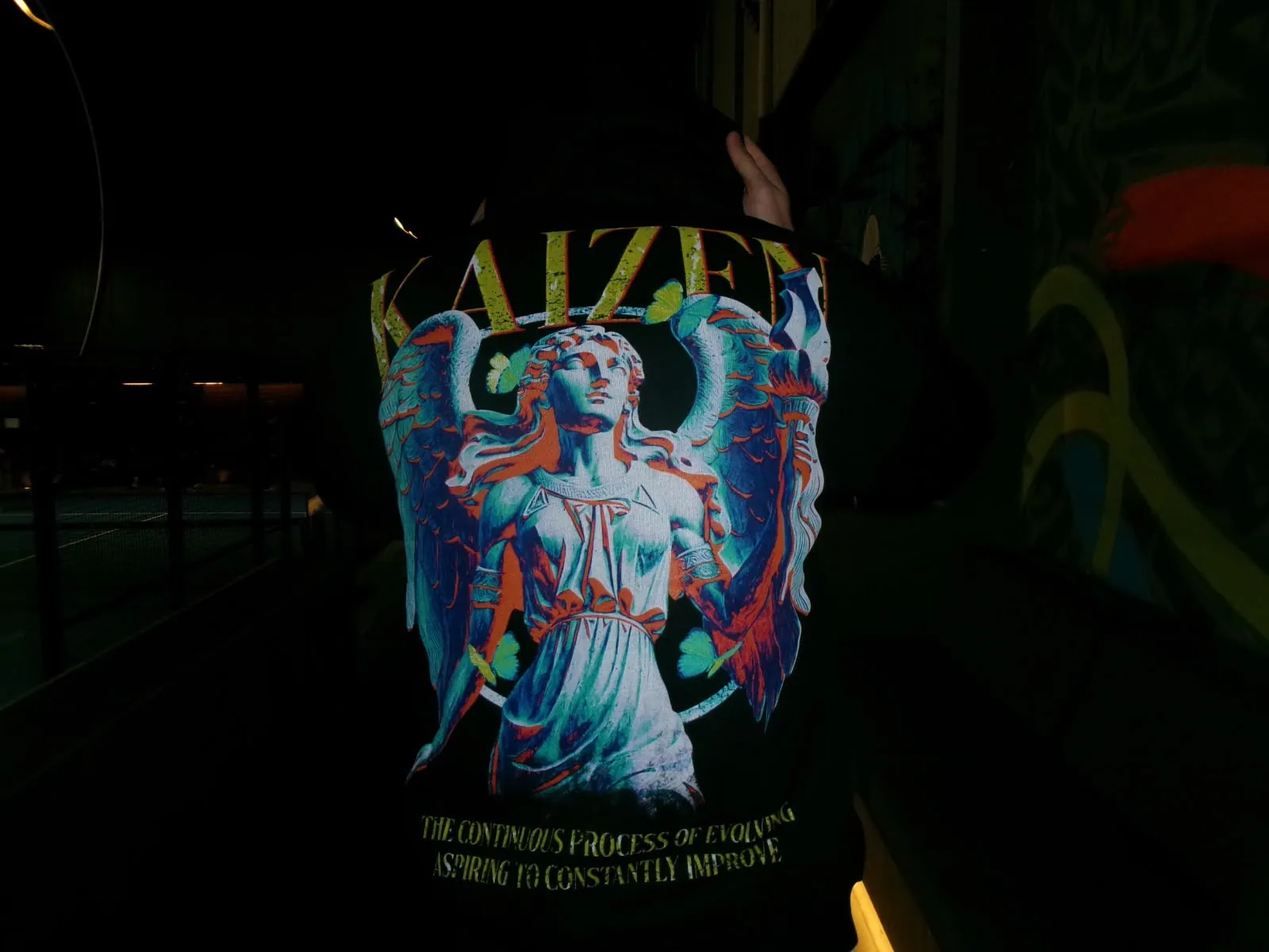
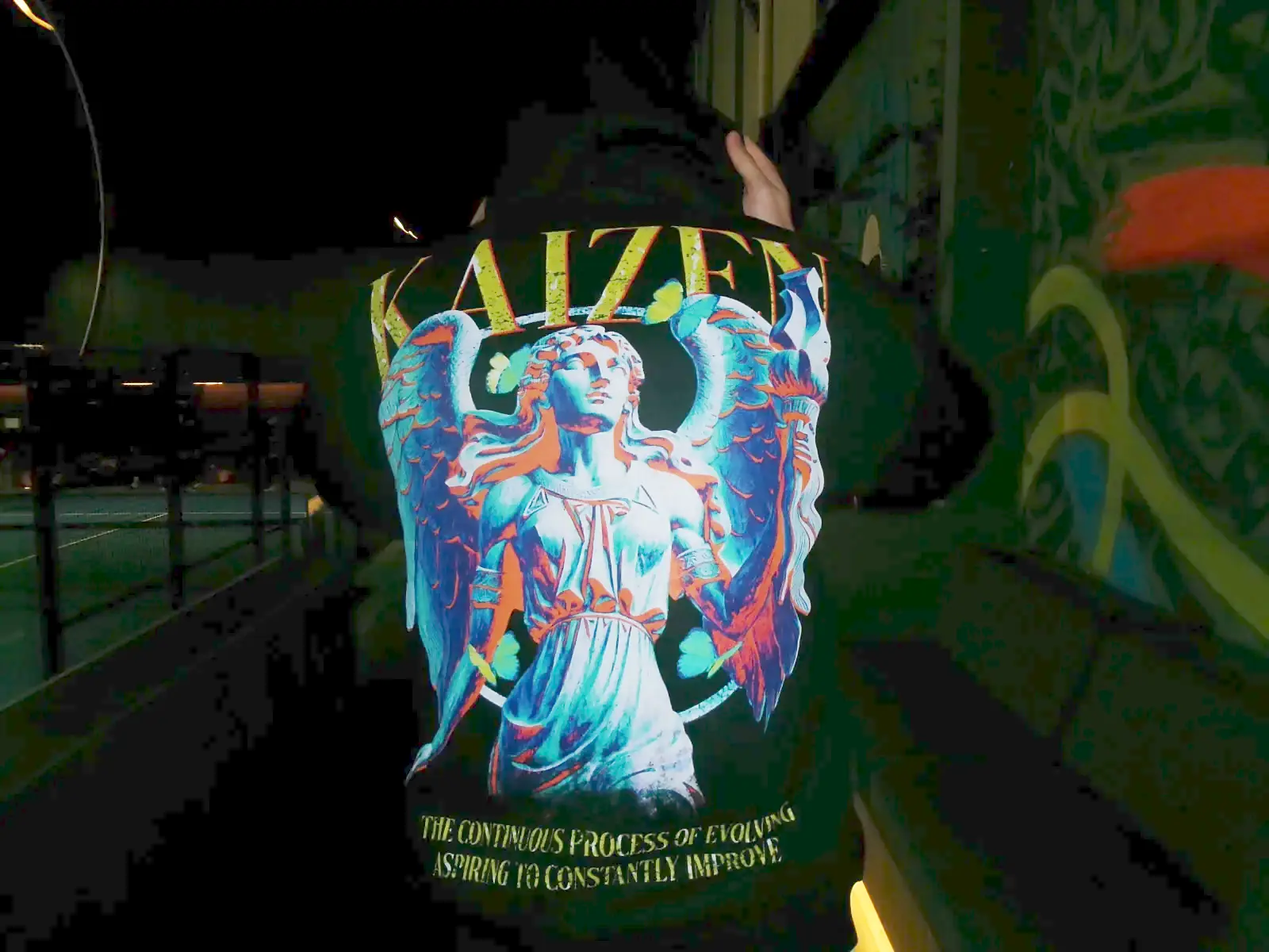
Answer the live review: real tee views, graded photos, audited copy, health check
- Tee pages show the brand's own 2024 design-sheet front and back views
  instead of "photo to come" frames; a product shows placeholders only
  when it has no photo at all
- Night photos graded (shadows lifted, slight warmth) and given deliberate
  4:5 crops for the product galleries; the hero keeps its mood
- Copy audited against the founder-approved brand brief: the VENGEANCE
  line no longer uses the banned word, Sanad's internal role is out of
  the public story and ordering text, the story page describes the real
  photo settings; a live database holding the retired wording is updated
- Archive and product pages label "Available now" and "Past release, not
  for sale" so the two can never be confused
- /api/health reports database, content source, ordering and uploads
  without secrets; the dashboard shows the same as warnings
- Fix: the contact page's WhatsApp button and Instagram link were
  invisible (a cover animation rule applied outside the cover)
- Archive chapters sit closer, with a hairline between them

Claude-Session: https://claude.ai/code/session_01KfYbv7KmSx2pcBoNv1AvWn

diff --git a/functions/_lib/seed.js b/functions/_lib/seed.js
@@ -22,7 +22,7 @@ export function seedVariants(p) {
 export const SEED_PRODUCTS = [
   {
     slug: 'vengeance-washed-hoodie',
-    images: ['/assets/img/ch1/vengeance-hoodie-back.webp | Back print, acid-washed charcoal', '/assets/img/ch1/vengeance-hoodie-night.webp | Worn, Amman, after dark', '/assets/img/ch1/vengeance-hoodie-white.webp | Back print, white', '/assets/img/ch1/vengeance-art.webp | The print: Lady Justice, VENGEANCE', '/assets/img/ch1/cover-night.webp | Hood up, over the city'],
+    images: ['/assets/img/ch1/vengeance-hoodie-back.webp | Back print, acid-washed charcoal', '/assets/img/ch1/vengeance-hoodie-night-45.webp | Worn, Amman, after dark', '/assets/img/ch1/vengeance-hoodie-white.webp | Back print, white', '/assets/img/ch1/vengeance-art.webp | The print: Lady Justice, VENGEANCE', '/assets/img/ch1/cover-night-45.webp | Hood up, over the city'],
     sku: 'SSC-VEN-WH', name: 'VENGEANCE Washed Hoodie', category: 'hoodies', collection: 'vengeance',
     price: 35000, tone: '#55524c', featured: true, status: 'available', sort: 10, color: 'Acid-washed charcoal',
     // White: real piece (Ali, 25 October 2026); count per size still to come, so it starts at 0.
@@ -35,7 +35,7 @@ export const SEED_PRODUCTS = [
   },
   {
     slug: 'vengeance-washed-tee',
-    images: ['/assets/img/ch1/vengeance-tee-wall.webp | Back print, on body, painted wall', '/assets/img/ch1/vengeance-tee-bar.webp | Worn, the gym', '/assets/img/ch1/vengeance-art.webp | The print: Lady Justice, VENGEANCE', '/assets/img/ch1/vengeance-tee-bar-2.webp | Pull-ups, Amman'],
+    images: ['/assets/img/ch1/vengeance-tee-wall.webp | Back print, on body, painted wall', '/assets/img/ch1/vengeance-tee-back.webp | Back print, acid-washed charcoal', '/assets/img/ch1/vengeance-tee-bar.webp | Worn, the gym', '/assets/img/ch1/vengeance-tee-front.webp | Front, chest logo', '/assets/img/ch1/vengeance-art.webp | The print: Lady Justice, VENGEANCE', '/assets/img/ch1/vengeance-tee-bar-2.webp | Pull-ups, Amman'],
     sku: 'SSC-VEN-WT', name: 'VENGEANCE Washed Tee', category: 'tees', collection: 'vengeance',
     price: 25000, tone: '#5e5b55', featured: true, status: 'available', sort: 20, color: 'Acid-washed charcoal',
     stock: { S: 0, M: 1, L: 2, XL: 2, XXL: 2 },
@@ -47,7 +47,7 @@ export const SEED_PRODUCTS = [
   },
   {
     slug: 'kaizen-hoodie',
-    images: ['/assets/img/ch1/kaizen-hoodie-back.webp | Back print, black', '/assets/img/ch1/hoodie-front-logo.webp | Front, chest logo', '/assets/img/ch1/kaizen-hoodie-white.webp | Back print, white', '/assets/img/ch1/kaizen-art.webp | The print: the angel, KAIZEN', '/assets/img/ch1/kaizen-hoodie-bar.webp | Worn, the gym'],
+    images: ['/assets/img/ch1/kaizen-hoodie-back.webp | Back print, black', '/assets/img/ch1/hoodie-front-logo.webp | Front, chest logo', '/assets/img/ch1/kaizen-hoodie-white.webp | Back print, white', '/assets/img/ch1/kaizen-art.webp | The print: the angel, KAIZEN', '/assets/img/ch1/kaizen-hoodie-bar.webp | Worn, the gym', '/assets/img/ch1/kaizen-hoodie-night-45.webp | Worn, Amman, after dark'],
     sku: 'SSC-KAI-H', name: 'KAIZEN Hoodie', category: 'hoodies', collection: 'kaizen',
     price: 35000, tone: '#26252a', featured: true, status: 'available', sort: 30, color: 'Black',
     // White: real piece (Ali, 25 October 2026); count per size still to come, so it starts at 0.
@@ -60,7 +60,7 @@ export const SEED_PRODUCTS = [
   },
   {
     slug: 'kaizen-tee',
-    images: ['/assets/img/ch1/poster-kaizen-blossom.webp | Tee and hoodie, Chapter One poster', '/assets/img/ch1/kaizen-art.webp | The print: the angel, KAIZEN'],
+    images: ['/assets/img/ch1/kaizen-tee-back.webp | Back print, black', '/assets/img/ch1/kaizen-tee-front.webp | Front, puff logo on the chest', '/assets/img/ch1/kaizen-art.webp | The print: the angel, KAIZEN', '/assets/img/ch1/poster-kaizen-blossom.webp | Tee and hoodie, Chapter One poster'],
     sku: 'SSC-KAI-T', name: 'KAIZEN Tee', category: 'tees', collection: 'kaizen',
     price: 25000, tone: '#2c2b30', featured: false, status: 'available', sort: 40, color: 'Black',
     stock: { S: 0, M: 2, L: 3, XL: 1, XXL: 0 },
@@ -72,7 +72,7 @@ export const SEED_PRODUCTS = [
   },
   {
     slug: 'tranquility-hoodie',
-    images: ['/assets/img/ch1/tranquility-hoodie-rooftop.webp | Back print, rooftop, Amman', '/assets/img/ch1/tranquility-hoodie-front.webp | Front, chest logo, hood up', '/assets/img/ch1/tranquility-art.webp | The print: TRANQUILITY', '/assets/img/ch1/tranquility-hoodie-wall.webp | Worn, after dark'],
+    images: ['/assets/img/ch1/tranquility-hoodie-rooftop.webp | Back print, rooftop, Amman', '/assets/img/ch1/tranquility-hoodie-front.webp | Front, chest logo, hood up', '/assets/img/ch1/tranquility-art.webp | The print: TRANQUILITY', '/assets/img/ch1/tranquility-hoodie-wall-45.webp | Worn, after dark'],
     sku: 'SSC-TRA-H', name: 'TRANQUILITY Hoodie', category: 'hoodies', collection: 'tranquility',
     price: 35000, tone: '#e8e3d8', featured: false, status: 'available', sort: 50, color: 'White',
     stock: { S: 1, M: 3, L: 2, XL: 3, XXL: 0 },
@@ -84,7 +84,7 @@ export const SEED_PRODUCTS = [
   },
   {
     slug: 'tranquility-tee',
-    images: ['/assets/img/ch1/poster-tranquility.webp | Tee and hoodie, Chapter One poster', '/assets/img/ch1/tranquility-art.webp | The print: TRANQUILITY'],
+    images: ['/assets/img/ch1/tranquility-tee-back.webp | Back print, white', '/assets/img/ch1/tranquility-tee-front.webp | Front, puff logo on the chest', '/assets/img/ch1/tranquility-art.webp | The print: TRANQUILITY', '/assets/img/ch1/poster-tranquility.webp | Tee and hoodie, Chapter One poster'],
     sku: 'SSC-TRA-T', name: 'TRANQUILITY Tee', category: 'tees', collection: 'tranquility',
     price: 25000, tone: '#efebe2', featured: false, status: 'available', sort: 60, color: 'White',
     stock: { S: 1, M: 3, L: 4, XL: 2, XXL: 0 },
@@ -111,12 +111,13 @@ export const SEED_COLLECTIONS = [
   },
   {
     slug: 'vengeance', title: 'VENGEANCE', chapter: 1, accent: '#B8382E', status: 'current',
-    meaning: 'Seeking revenge for justice. Turn it into fuel.',
+    meaning: 'The hardest chapter, turned into fuel.',
     images: ['/assets/img/ch1/vengeance-hoodie-back.webp', '/assets/img/ch1/vengeance-art.webp', '/assets/img/ch1/poster-vengeance.webp'],
     description: 'Acid-washed charcoal, cut oversized, the heaviest fabric of the three. VENGEANCE is never about people. It is what you make of the hardest chapter.',
   },
 ];
 
+// The tee front and back views come from the brand's own 2024 design sheet (Stoic Sample Mock Ups.pdf).
 // One lookbook per photoshoot. Photos are the brand's own (Ali, 25 October 2026); captions say
 // what is in the frame, nothing more.
 const P = (file, caption, tag = 'campaign') => ({ image: `/assets/img/ch1/${file}.webp`, caption, alt: caption, tag });
@@ -152,6 +153,12 @@ export const SEED_LOOKBOOKS = [
   },
 ];
 
+// Wording the founders retired (25 October 2026). A live site still holding the old text gets the new one.
+export const RETIRED_WORDING = {
+  ordering_text: ['Choose your size and tap Order via WhatsApp. The message is written for you; you send it. Sanad confirms availability, delivery and the total before anything is paid.'],
+};
+export const RETIRED_MEANINGS = { vengeance: ['Seeking revenge for justice. Turn it into fuel.'] };
+
 export const DEFAULT_SETTINGS = {
   // The order number is never written in code. It is set in the dashboard, in international
   // format without + (for example 9627XXXXXXXX). Empty means ordering is switched off.
@@ -167,7 +174,7 @@ export const DEFAULT_SETTINGS = {
   manifesto: 'People move through chapters. Some are about building, some about grief, some about getting your calm back.\nThe clothes are for the one you are in now, not the one you are performing.\nWear it like you mean it.',
   manifesto_image: '/assets/img/ch1/tranquility-hoodie-rooftop.webp',
   announcement: '',
-  ordering_text: 'Choose your size and tap Order via WhatsApp. The message is written for you; you send it. Sanad confirms availability, delivery and the total before anything is paid.',
+  ordering_text: 'Choose your size and tap Order via WhatsApp. The message is written for you; you send it. We confirm availability, delivery and the total before anything is paid.',
   shipping_text: 'Free delivery in Amman. 3 JOD across the rest of Jordan. International order inquiries welcome: shipping availability and cost are confirmed before purchase.',
   payment_text: 'CliQ transfer or cash on delivery inside Jordan, confirmed on WhatsApp.',
   swap_text: 'Wrong size? Swap it within 7 days if unworn with tags on; you cover the swap delivery. Defects are replaced free.',

diff --git a/functions/_lib/pages.js b/functions/_lib/pages.js
@@ -149,7 +149,8 @@ export function product(site, origin, p) {
   const chapter = col ? col.chapter : currentChapter(site);
   const shots = [['front', `${p.name}, front`], ['back', `${p.name}, back print`], ['detail', `${p.name}, close-up detail`], ['on body', `${p.name}, on body`]];
   const real = p.images.map((u, i) => frame({ image: u, alt: p.captions[i] || `${p.name}, photo ${i + 1}`, caption: p.captions[i], n: i + 1, ratio: '4/5', eager: i === 0 }));
-  const missing = shots.slice(p.images.length).map(([, shot], j) => frame({ image: '', alt: shot, n: p.images.length + j + 1, ratio: '4/5', shot }));
+  // A product with photos shows only real photos; only a product with none gets one marked placeholder.
+  const missing = p.images.length ? [] : shots.slice(0, 1).map(([, shot], j) => frame({ image: '', alt: shot, n: j + 1, ratio: '4/5', shot }));
   const gallery = [...real, ...missing].join('');
   const colors = p.colors;
   const sizes = p.sizes;
@@ -176,7 +177,7 @@ export function product(site, origin, p) {
       <h1 class="pdp-name">${esc(p.name)}</h1>
       <p class="pdp-price"><span data-price>${money(p.price, p.currency)}</span>${p.compare_at > p.price ? ` <s>${money(p.compare_at, p.currency)}</s>` : ''}</p>
       <p class="pdp-desc">${esc(p.description)}</p>
-      ${p.status === 'archived' ? `<p class="notice-line">This piece is archived. It is not for sale.</p>` : ''}
+      ${p.status === 'archived' ? `<p class="state-line"><span class="state state-past">Past release · not for sale</span></p><p class="notice-line">This piece is in the archive as the record. Nothing on this page can be ordered.</p>` : ''}
       ${p.status === 'sold_out' ? `<p class="notice-line">Sold out.${waOn && s.restock_inquiries === '1' ? ` <a class="link" data-restock href="#">Ask about a restock</a>` : ''}</p>` : ''}
       ${p.orderable ? `
       <form class="order" data-order novalidate>
@@ -268,13 +269,14 @@ ${chapters.map((c) => {
       <div class="split-text">
         <p class="chapter-n">${chapterLabel(c.chapter)}${c.release_date ? ` · ${esc(c.release_date)}` : ''}</p>
         <h2 class="statement statement-s"><span class="line"><span class="line-in">${esc(c.title)}</span></span></h2>
+        <p class="state-line"><span class="state ${live.length ? 'state-now' : 'state-past'}">${live.length ? 'Available now' : c.status === 'archived' ? 'Past release · not for sale' : 'Not in the shop'}</span></p>
         <p class="lead">${esc(c.meaning)}</p>
         <div class="manifesto">${paragraphs(c.description)}</div>
         ${live.length ? `<p><a class="link" href="/shop?collection=${esc(c.slug)}">${live.length} piece${live.length === 1 ? '' : 's'} in the shop</a></p>` : ''}
       </div>
       <div class="split-pic">${frame({ image: c.images[0], alt: `${c.title} campaign`, ratio: '4/5', shot: `${c.title} campaign photo` })}</div>
     </div>
-    ${gone.length ? `<div class="sheet sheet-3">${gone.map((p, i) => productCard(p, i + 1)).join('')}</div>` : ''}
+    ${gone.length ? `<p class="fine-caps">Past pieces, kept as the record. Not for sale.</p><div class="sheet sheet-3">${gone.map((p, i) => productCard(p, i + 1)).join('')}</div>` : ''}
   </div>
 </section>`;
   }).join('')}`;
@@ -289,7 +291,7 @@ export function story(site, origin) {
   const fallback = `Stoic Soul Club is an independent streetwear brand from Amman, started by three friends with Libyan, Iraqi and Jordanian-Palestinian roots.
 The idea was always the same: people move through chapters, and there is pride in the one you are in, not only the one you are aiming for.
 The first three designs, KAIZEN, TRANQUILITY and VENGEANCE, were made in 2024. Every piece carries a small bust on the chest and a large print on the back.
-Today Ali runs the brand's channels and orders, Kishta runs manufacturing, Mahmoud makes content with them, and Sanad runs the day to day.`;
+The three founders still make it together: the clothes, the photos and the words.`;
   const body = `
 <section class="band band-first">
   <div class="wrap split">
@@ -298,14 +300,14 @@ Today Ali runs the brand's channels and orders, Kishta runs manufacturing, Mahmo
       <div class="manifesto story-text">${paragraphs(s.story_text || fallback)}</div>
       <p><a class="link" href="/archive">See every chapter</a></p>
     </div>
-    <div class="split-pic">${frame({ image: s.story_image, alt: 'The people behind Stoic Soul Club', n: 1, ratio: '4/5', shot: 'The founders and Sanad, together, in daylight' })}</div>
+    <div class="split-pic">${frame({ image: s.story_image, alt: 'The people behind Stoic Soul Club', n: 1, ratio: '4/5', shot: 'The founders, together' })}</div>
   </div>
 </section>
 <section class="band band-paper">
   <div class="wrap">
     <div class="beliefs">
       <div><span class="sec-n">01</span><h3>Garment first</h3><p>The piece has to be wanted with the words covered up. The meaning is the second thing you notice.</p></div>
-      <div><span class="sec-n">02</span><h3>Real people, real places</h3><p>No statues, no stock models. The photos are friends, in Amman, in daylight.</p></div>
+      <div><span class="sec-n">02</span><h3>Real people, real places</h3><p>No stock models, no AI. The photos are friends, in Amman: a gym, a rooftop, a painted wall.</p></div>
       <div><span class="sec-n">03</span><h3>Nobody has arrived</h3><p>The clothes are for people building something who have not finished yet, and do not pretend to have.</p></div>
       <div><span class="sec-n">04</span><h3>Warm, not cold</h3><p>Confidence without arrogance, discipline without cruelty. Belonging never requires buying.</p></div>
     </div>

diff --git a/functions/api/staff/overview.js b/functions/api/staff/overview.js
@@ -1,13 +1,13 @@
 // GET /api/staff/overview: what people looked at and how many opened WhatsApp. Inquiries, never sales.
 import { handle, json } from '../../_lib/http.js';
-import { getDb } from '../../_lib/db.js';
+import { getDb, getSettings } from '../../_lib/db.js';
 
 export const onRequestGet = handle(async ({ env }) => {
   const db = await getDb(env);
   const since = (days) => `date('now', '+3 hours', '-${days} days')`;
   const counts = (days) => db.prepare(`SELECT kind, COUNT(*) AS n FROM events WHERE day >= ${since(days)} GROUP BY kind`).all();
-  const [today, week, month, top, sources, daily, low, stock] = await Promise.all([
-    counts(0), counts(7), counts(30),
+  const [settings, today, week, month, top, sources, daily, low, stock] = await Promise.all([
+    getSettings(db), counts(0), counts(7), counts(30),
     db.prepare(`SELECT product, SUM(kind = 'wa_click') AS inquiries, SUM(kind = 'product_view') AS views FROM events WHERE day >= ${since(30)} AND product != '' AND product != 'general' GROUP BY product ORDER BY inquiries DESC, views DESC LIMIT 10`).all(),
     db.prepare(`SELECT CASE WHEN source = '' THEN 'direct' ELSE source END AS source, COUNT(*) AS n FROM events WHERE day >= ${since(30)} AND kind IN ('page_view','product_view') GROUP BY 1 ORDER BY n DESC LIMIT 8`).all(),
     db.prepare(`SELECT day, SUM(kind IN ('page_view','product_view')) AS views, SUM(kind = 'wa_click') AS inquiries FROM events WHERE day >= ${since(14)} GROUP BY day ORDER BY day`).all(),
@@ -15,7 +15,12 @@ export const onRequestGet = handle(async ({ env }) => {
     db.prepare(`SELECT COALESCE(SUM(v.stock), 0) AS pieces FROM variants v JOIN products p ON p.id = v.product_id WHERE p.status = 'available'`).first(),
   ]);
   const toMap = (r) => Object.fromEntries(r.results.map((x) => [x.kind, x.n]));
+  const alerts = [];
+  if (!String(settings.whatsapp || '').replace(/\D/g, '')) alerts.push({ level: 'bad', text: 'Ordering is OFF: no WhatsApp number is saved. Site tab, WhatsApp number, then Save.' });
+  if (!env.IMAGES) alerts.push({ level: 'warn', text: 'Photo uploads are not connected: the R2 bucket is not bound as IMAGES (LAUNCH.md step 5). Photos can still be set by address.' });
+  if (settings.site_public !== '1') alerts.push({ level: 'info', text: 'The site is hidden from search engines until Site tab, Public, is switched on.' });
   return json({
+    alerts,
     today: toMap(today), week: toMap(week), month: toMap(month),
     top: top.results, sources: sources.results, daily: daily.results, low_stock: low.results, pieces_in_stock: stock.pieces,
   });

diff --git a/public/assets/css/site.css b/public/assets/css/site.css
@@ -316,6 +316,14 @@ figure { margin: 0; }
 .chapter-link:hover .chapter-title { color: var(--accent, var(--butterfly)); }
 .chapter-meaning { grid-column: 2; color: var(--muted); font-size: 16px; max-width: 48ch; }
 .chapter-state { grid-column: 2; color: var(--gray); }
+.chapter-band { padding-block: clamp(40px, 6vw, 88px); }
+.chapter-band + .chapter-band { border-top: 1px solid var(--line); }
+.state-line { margin: 10px 0 0; }
+.state { display: inline-block; font-family: var(--sans); font-size: 12px; letter-spacing: .14em; text-transform: uppercase; padding: 6px 10px; border: 1px solid currentColor; line-height: 1; }
+.state-now { color: var(--ink); background: var(--bone); border-color: var(--ink); }
+.band-ink .state-now, .pdp .state-now { color: var(--bone); background: var(--ink); }
+.state-past { color: var(--gray); }
+.pdp .state-line { margin: 0 0 12px; }
 .chapter-pic { max-width: 420px; }
 @media (min-width: 900px) {
   .chapter { grid-template-columns: 1fr 320px; align-items: center; }
@@ -432,7 +440,7 @@ select { height: 48px; padding: 0 12px; border: 1.5px solid var(--ink); border-r
 .js .statement[data-animate].in .line:nth-child(2) .line-in { transition-delay: 70ms; }
 .js .statement[data-animate].in .line:nth-child(3) .line-in { transition-delay: 140ms; }
 .js .statement[data-animate].in .line:nth-child(4) .line-in { transition-delay: 210ms; }
-.js .cover-sub, .js .cover-cta, .js .cover-cap, .js .cover-scroll { opacity: 0; transform: translateY(8px); }
+.js .cover .cover-sub, .js .cover .cover-cta, .js .cover .cover-cap, .js .cover .cover-scroll { opacity: 0; transform: translateY(8px); }
 .js .cover.in .cover-sub, .js .cover.in .cover-cta, .js .cover.in .cover-cap, .js .cover.in .cover-scroll { opacity: 1; transform: none; transition: opacity 500ms var(--ease) 420ms, transform 500ms var(--ease) 420ms; }
 .js .frame[data-reveal] .frame-img { clip-path: inset(100% 0 0 0); }
 .js .frame[data-reveal] .frame-img img, .js .frame[data-reveal] .frame-img .ph { transform: scale(1.04); }

diff --git a/functions/_lib/render.js b/functions/_lib/render.js
@@ -138,7 +138,7 @@ export function frame({ image, alt, caption = '', n, ratio = '4/5', cls = '', ea
 }
 
 export function availability(p) {
-  if (p.status === 'archived') return '<span class="tag tag-archived">Archived</span>';
+  if (p.status === 'archived') return '<span class="tag tag-archived">Past release · not for sale</span>';
   if (p.status === 'sold_out') return '<span class="tag tag-soldout">Sold out</span>';
   const left = p.variants.filter((v) => v.in_stock).map((v) => v.size);
   return `<span class="tag tag-available">Available · ${esc(left.join(' '))}</span>`;
@@ -147,11 +147,11 @@ export function availability(p) {
 export function productCard(p, n, { cls = '' } = {}) {
   const front = p.images[0] || '';
   const back = p.images[1] || '';
-  const label = p.status === 'archived' ? 'Archived' : p.status === 'sold_out' ? 'Sold out' : '';
+  const label = p.status === 'archived' ? 'Not for sale' : p.status === 'sold_out' ? 'Sold out' : '';
   return `<a class="product ${cls} ${p.status}" href="/product/${esc(p.slug)}" data-collection="${esc(p.collection)}">
     <figure class="frame" style="--ratio:4/5"><span class="frame-n" aria-hidden="true">${pad(n)}</span>
       <div class="frame-img">${front
-        ? `<img src="${esc(front)}" alt="${esc(p.name)}, front" loading="lazy" decoding="async">${back ? `<img class="alt" src="${esc(back)}" alt="" loading="lazy" decoding="async">` : ''}`
+        ? `<img src="${esc(front)}" alt="${esc(p.captions && p.captions[0] ? `${p.name}: ${p.captions[0]}` : p.name)}" loading="lazy" decoding="async">${back ? `<img class="alt" src="${esc(back)}" alt="" loading="lazy" decoding="async">` : ''}`
         : `<div class="ph" role="img" aria-label="Photo to come: ${esc(p.name)}"><span class="ph-label">Photo to come</span><span class="ph-shot">${esc(p.name)}, front</span></div>`}
       ${label ? `<span class="ribbon">${label}</span>` : ''}</div>
     </figure>

diff --git a/functions/_lib/db.js b/functions/_lib/db.js
@@ -2,7 +2,7 @@
 // so a fresh Cloudflare D1 database needs no setup beyond connecting it as DB.
 // Money is stored in fils (1 JOD = 1000 fils) so sums never get rounding errors.
 import { HttpError, sha256, clientIp } from './http.js';
-import { SEED_PRODUCTS, SEED_COLLECTIONS, SEED_LOOKBOOKS, DEFAULT_SETTINGS, seedVariants } from './seed.js';
+import { SEED_PRODUCTS, SEED_COLLECTIONS, SEED_LOOKBOOKS, DEFAULT_SETTINGS, RETIRED_WORDING, RETIRED_MEANINGS, seedVariants } from './seed.js';
 
 export const PRODUCT_STATUS = ['draft', 'available', 'sold_out', 'archived'];
 export const COLLECTION_STATUS = ['draft', 'current', 'archived'];
@@ -150,6 +150,12 @@ export async function getDb(env) {
     if (l === 0) await seedLookbooks(env.DB);
     const seed = env.DB.prepare('INSERT OR IGNORE INTO settings (key, value) VALUES (?, ?)');
     await env.DB.batch(Object.entries(DEFAULT_SETTINGS).map(([k, v]) => seed.bind(k, v)));
+    const reword = env.DB.prepare('UPDATE settings SET value = ? WHERE key = ? AND value = ?');
+    const remean = env.DB.prepare('UPDATE collections SET meaning = ? WHERE slug = ? AND meaning = ?');
+    await env.DB.batch([
+      ...Object.entries(RETIRED_WORDING).flatMap(([k, olds]) => olds.map((old) => reword.bind(DEFAULT_SETTINGS[k], k, old))),
+      ...Object.entries(RETIRED_MEANINGS).flatMap(([slug, olds]) => olds.map((old) => remean.bind(SEED_COLLECTIONS.find((c) => c.slug === slug).meaning, slug, old))),
+    ]);
     ready = true;
   }
   return env.DB;

diff --git a/functions/api/health.js b/functions/api/health.js
@@ -1,0 +1,18 @@
+// GET /api/health: is the site wired up? Safe to share: no secrets, no counts of people.
+import { json } from '../_lib/http.js';
+import { loadSite } from '../_lib/content.js';
+
+export async function onRequestGet({ env }) {
+  let site; let error = '';
+  try { site = await loadSite(env); } catch (err) { error = String((err && err.message) || err); }
+  const settings = site ? site.settings : {};
+  return json({
+    ok: !!site && !site.fallback && !!settings.whatsapp,
+    database: env.DB ? (site && !site.fallback ? 'connected' : 'error') : 'not bound',
+    content: site && !site.fallback ? 'database' : 'starter',
+    ordering: settings.whatsapp ? 'on' : 'off (no WhatsApp number saved in the dashboard)',
+    photo_uploads: env.IMAGES ? 'connected' : 'not connected (R2 bucket not bound as IMAGES)',
+    products: site ? site.products.length : 0,
+    error,
+  }, 200, { 'cache-control': 'no-store' });
+}

diff --git a/public/assets/css/staff.css b/public/assets/css/staff.css
@@ -65,3 +65,8 @@ dialog form { display: grid; gap: 14px; }
 .daily b { display: block; background: var(--ink); min-height: 2px; }
 .daily i { display: block; background: var(--butterfly); min-height: 2px; }
 .uploading { opacity: .5; pointer-events: none; }
+
+.alert { padding: 12px 14px; border: 1px solid; margin: 0 0 14px; font-weight: 500; }
+.alert.bad { border-color: #b8382e; color: #8a2a22; background: #fbeeec; }
+.alert.warn { border-color: #c8963e; color: #7a5a22; background: #fbf4e6; }
+.alert.info { border-color: #cfc9bc; color: #555; background: #f4f1ea; }

diff --git a/public/assets/js/staff.js b/public/assets/js/staff.js
@@ -123,6 +123,7 @@
   async function loadOverview() {
     const d = await api('/api/staff/overview');
     const n = (m, k) => m[k] || 0;
+    $('#alerts').innerHTML = (d.alerts || []).map((a) => `<p class="alert ${esc(a.level)}">${esc(a.text)}</p>`).join('');
     $('#kpis').innerHTML = [
       [n(d.today, 'wa_click'), 'WhatsApp inquiries today'],
       [n(d.week, 'wa_click'), 'Inquiries, last 7 days'],

diff --git a/public/staff/index.html b/public/staff/index.html
@@ -34,6 +34,7 @@
     </nav>
 
     <section data-panel="overview">
+      <div id="alerts"></div>
       <p class="fine">Counts from the site itself, with no cookies and nothing personal. A WhatsApp inquiry is someone opening a chat, not a sale.</p>
       <div class="kpis" id="kpis"></div>
       <div class="cols">

diff --git a/docs/EDITING.md b/docs/EDITING.md
@@ -17,6 +17,7 @@ Changes show on the site within about 20 seconds. If a page looks old, pull to r
 - The first photo is the main one; the second shows on hover on the shop grid. The caption box under each photo is optional and shows under the photo on the product page (for example "Back print, on body"). Portrait photos work best on product frames; the cover is landscape on desktop.
 - **Paste a link** works for a photo that already lives on the internet (an https address).
 - Logo: a PNG with a transparent background. Until one is set the butterfly mark is used.
+- The tee front and back views on the KAIZEN, TRANQUILITY and VENGEANCE tee pages are cut from the brand's own 2024 design sheet; replace them with real photos of the tees (front, back, on body) when you have them.
 
 ## Chapters
 A chapter is a collection: KAIZEN, TRANQUILITY, VENGEANCE and the next ones. Each has a number, a one-line meaning, a description, an accent colour, photos and a status (*Draft*, *Current*, *Archived*). Current chapters appear on the home page; archived ones stay in the archive.
@@ -34,7 +35,7 @@ One lookbook per photoshoot or campaign: title, chapter, photographer credit, a 
 - **Switches**: restock questions on sold-out pieces (only if someone will answer), anonymous counts (page views and WhatsApp clicks; no cookies, nothing personal), and **Site is public** (lets Google list the site; leave off until the founders approve the launch).
 
 ## Inquiries tab
-Counts of page views and WhatsApp clicks today, this week and this month, the most viewed pieces, where visitors came from (Instagram or direct), and sizes that are at 0. A WhatsApp click is an inquiry, not a sale: the sale happens in the chat.
+Warnings at the top tell you when ordering is off (no WhatsApp number saved), when photo uploads are not connected, and that the site is still hidden from Google. Below them: counts of page views and WhatsApp clicks today, this week and this month, the most viewed pieces, where visitors came from (Instagram or direct), and sizes that are at 0. A WhatsApp click is an inquiry, not a sale: the sale happens in the chat.
 
 ## If something breaks
 - "Photo uploads are not set up yet": the R2 bucket is not connected; see LAUNCH.md step 5. Paste a link meanwhile.

diff --git a/README.md b/README.md
@@ -21,9 +21,11 @@ Every page is rendered on the server from the database, so Google, WhatsApp link
 ## How ordering works
 1. The customer picks a size (and colour) that is in stock.
 2. The button opens WhatsApp with the inquiry already written: product, variant, size, displayed price, destination country, link.
-3. The customer sends it. Sanad confirms availability, delivery and the total. Nothing is reserved or paid on the site.
+3. The customer sends it. Stoic confirms availability, delivery and the total in the chat. Nothing is reserved or paid on the site.
 
 The WhatsApp number lives only in the dashboard (Site tab). When it is empty the button reads "Ordering opens soon". Clicks are counted as inquiries, never as sales.
+
+`/api/health` says, without secrets, whether the database is connected, whether the pages come from it or from the starter content, whether ordering is on, and whether photo uploads are connected. The dashboard's Inquiries tab shows the same things as warnings.
 
 ## Layout
 ```
